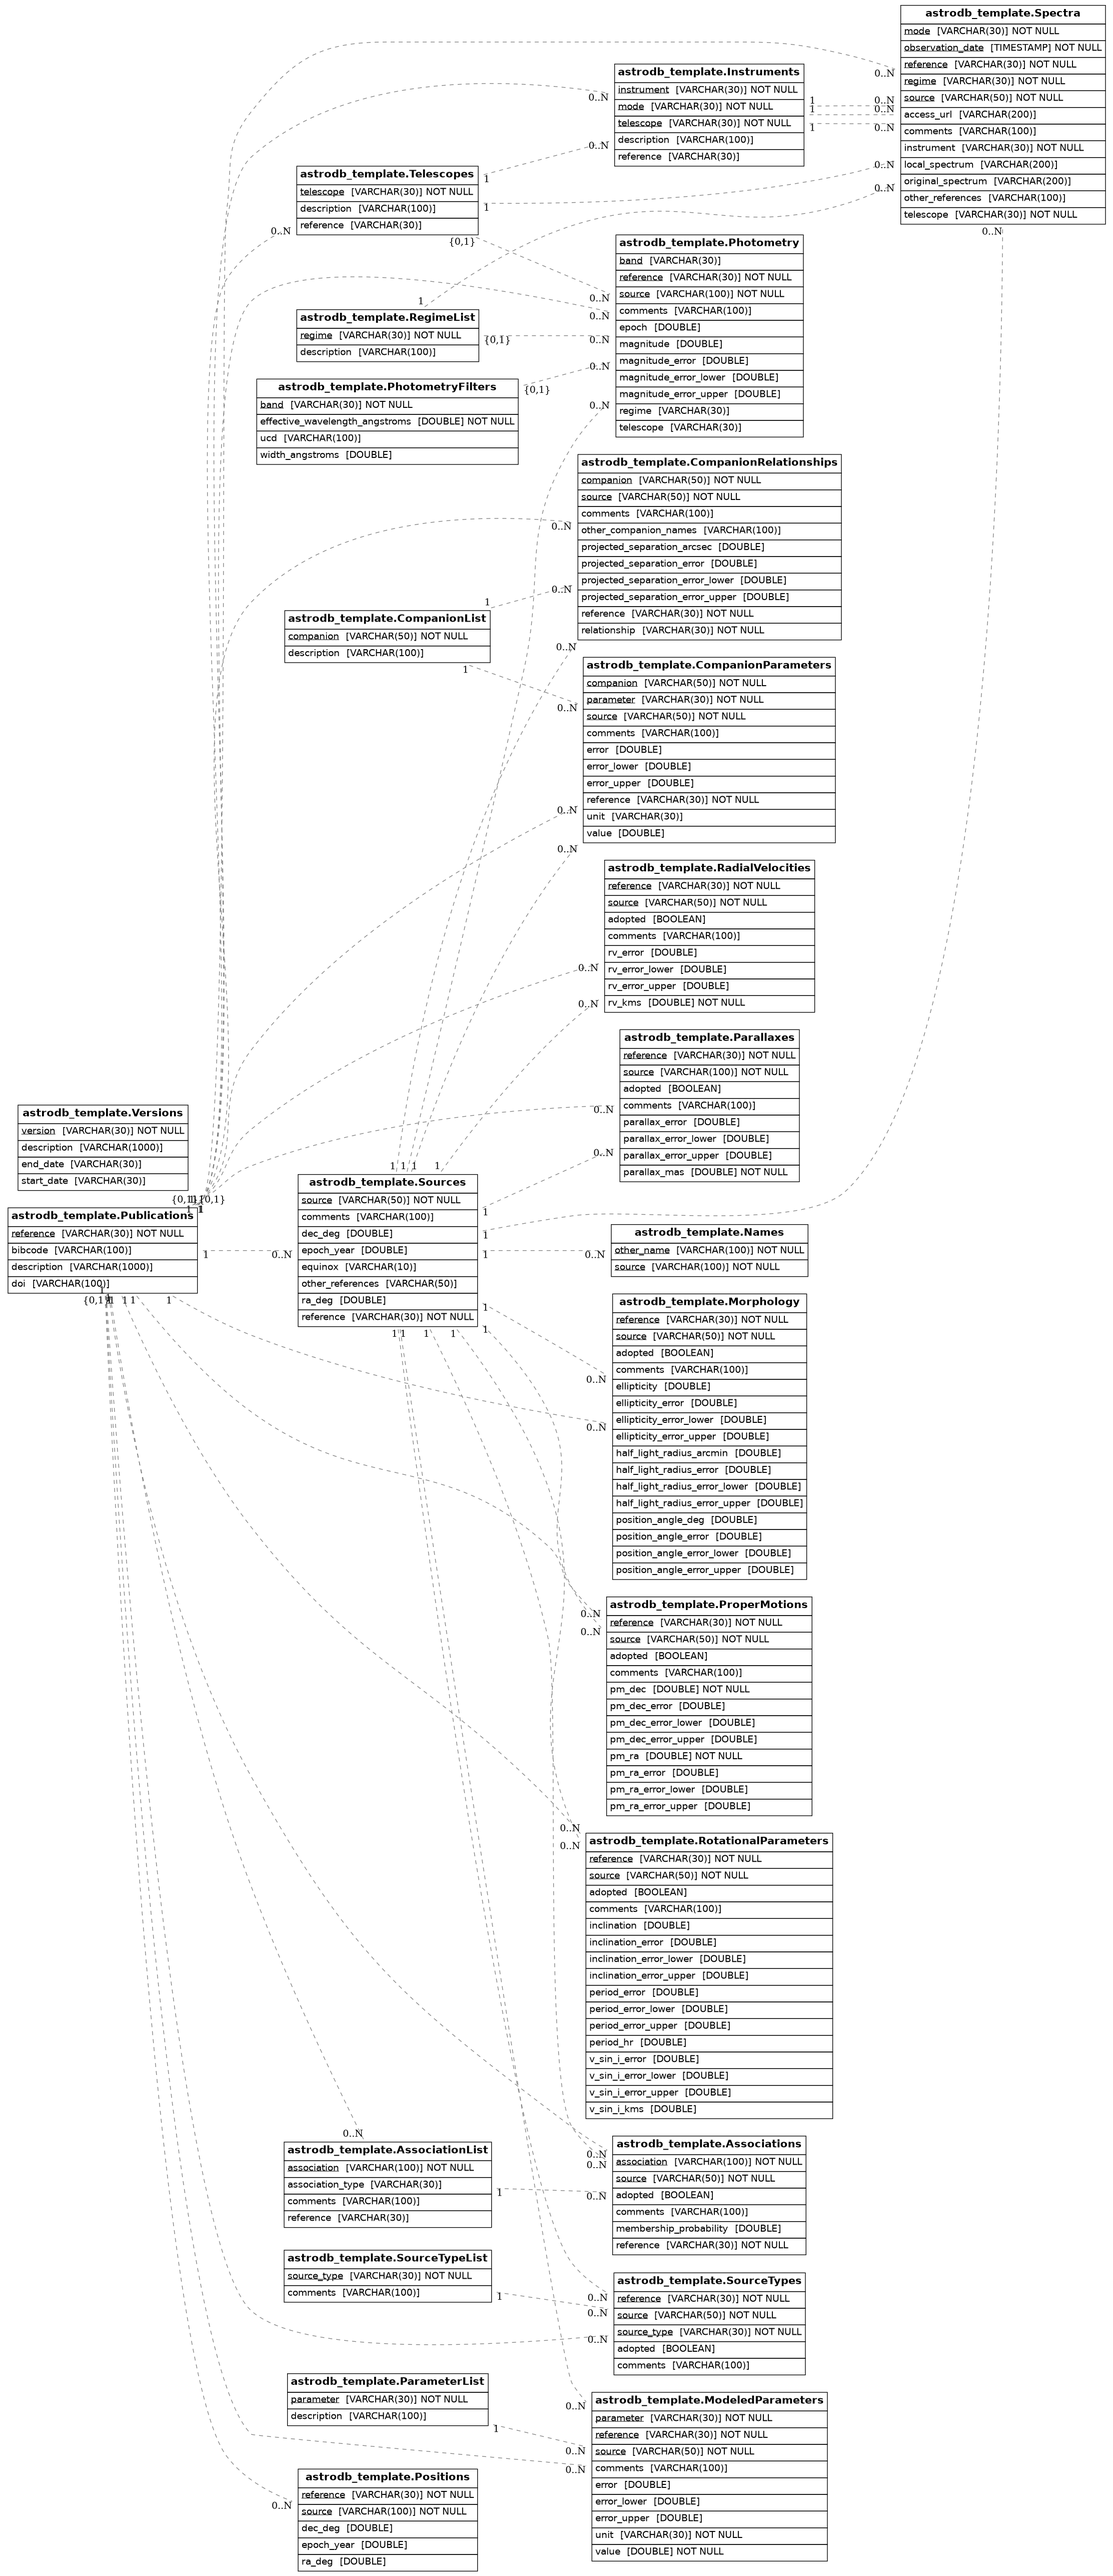
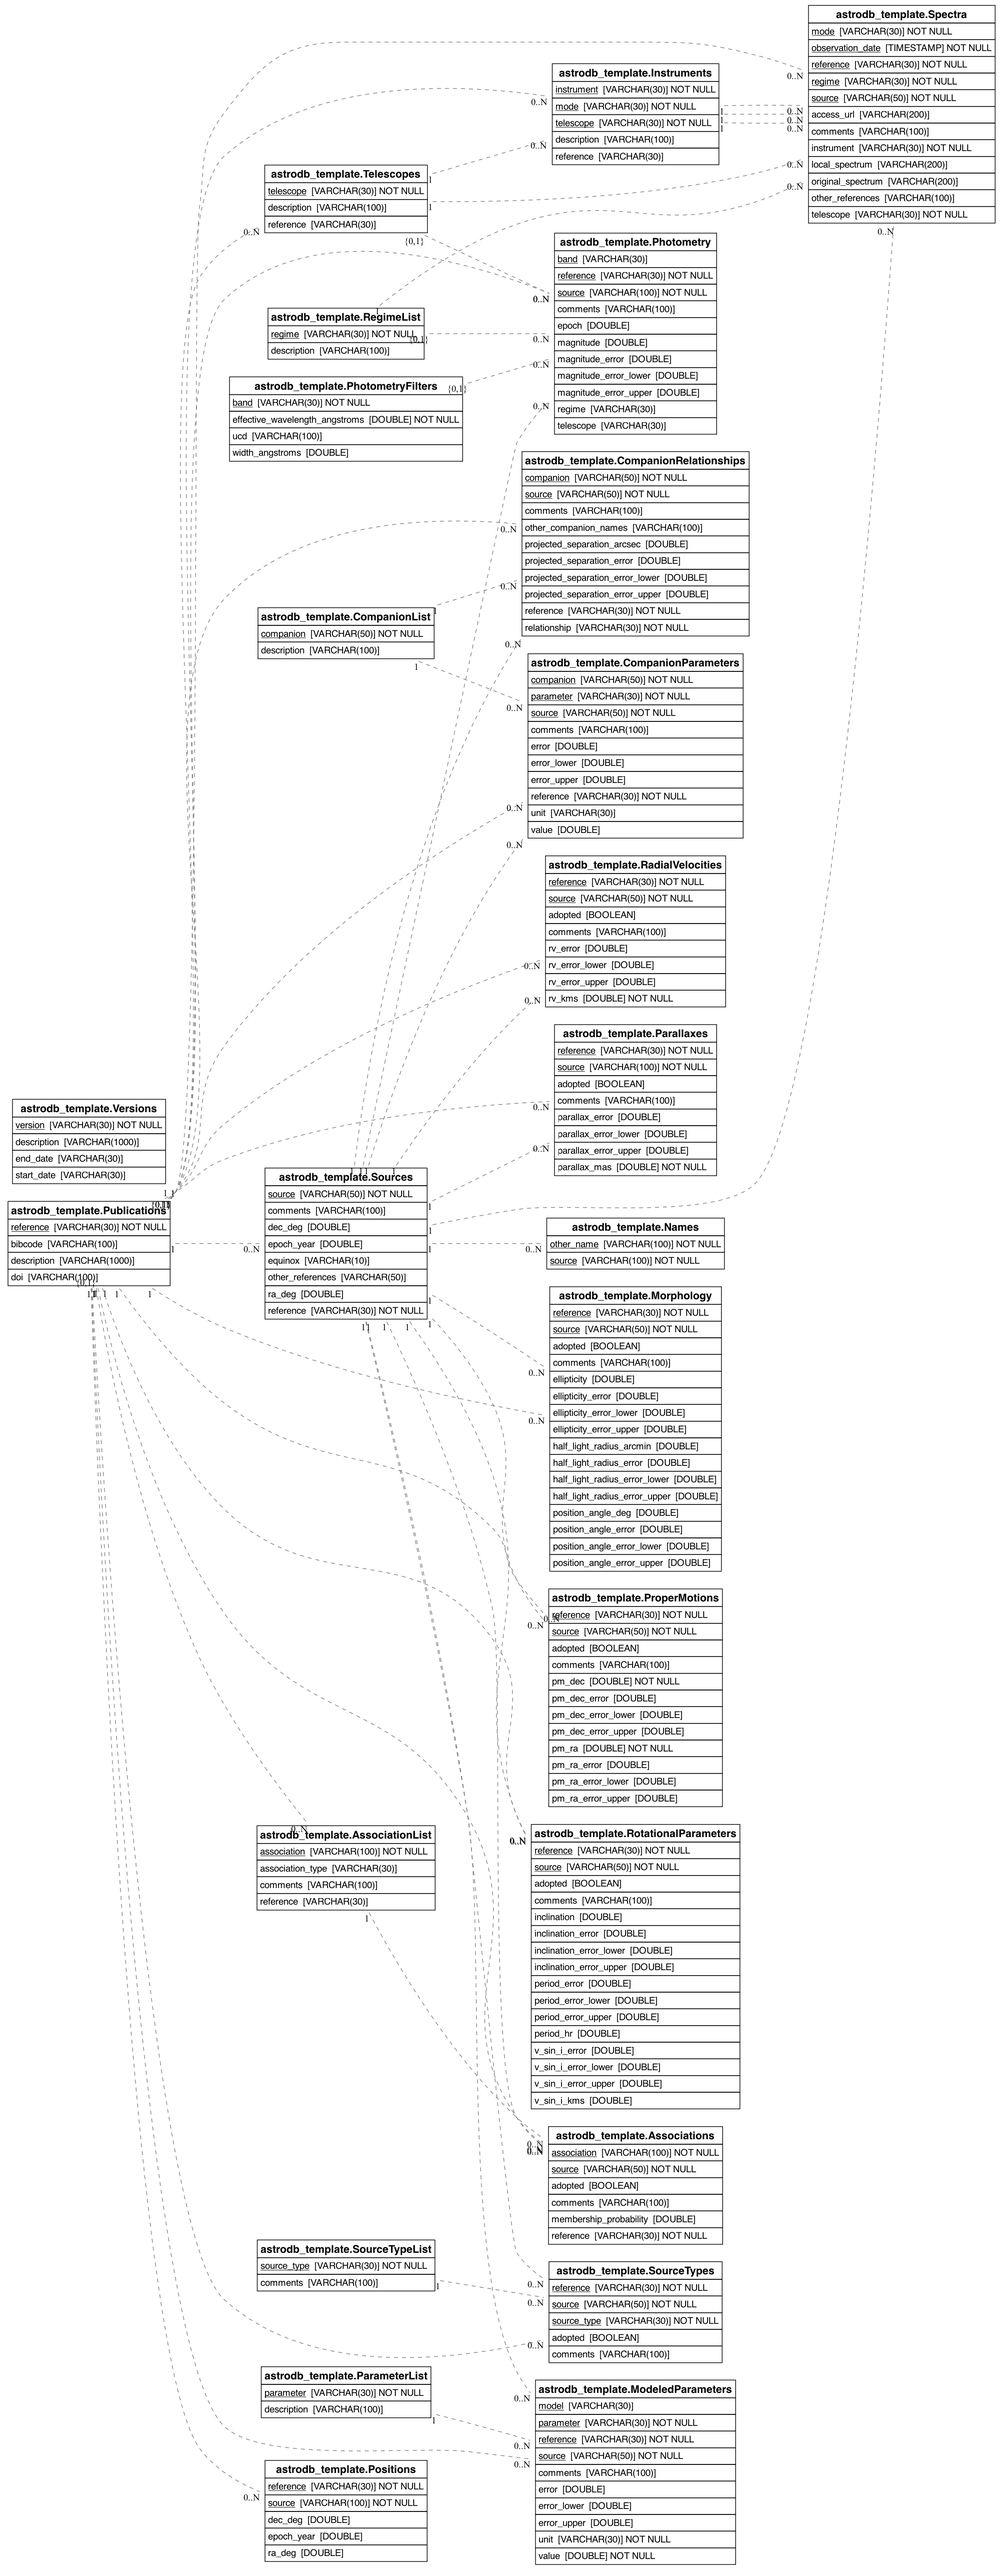
Adding model field to ModeledParameters (#183)
* Adding asymmetric errors throughout template, updating docs, example

* Adding model field to ModeledParameters

* updating sqlite file

diff --git a/docs/schema/ModeledParameters.md b/docs/schema/ModeledParameters.md
@@ -6,6 +6,7 @@ Columns marked with an exclamation mark (❗) may not be empty.
 | Column Name | Description | Datatype | Length | Units  | UCD |
 | --- | --- | --- | --- | --- | --- |
 | ❗ <ins>source</ins> | Unique identifier for the source; links to Sources table | string | 50 |  | meta.id;meta.main  |
+| model | Model name | string | 30 |  | meta.id  |
 | ❗ <ins>parameter</ins> | Parameter name; links to ParameterList table | string | 30 |  | meta.id  |
 | ❗ value | Value of the parameter | double |  |  | stat.value;meta.modelled  |
 | error | Uncertainty of the parameter value | double |  |  | stat.error;meta.modelled  |
@@ -18,7 +19,7 @@ Columns marked with an exclamation mark (❗) may not be empty.
 ## Indexes
 | Name | Columns | Description |
 | --- | --- | --- |
-| PK_ModeledParameters | ['#ModeledParameters.source', '#ModeledParameters.parameter', '#ModeledParameters.reference'] | Primary key for ModeledParameters table |
+| PK_ModeledParameters | ['#ModeledParameters.source', '#ModeledParameters.model', '#ModeledParameters.parameter', '#ModeledParameters.reference'] | Primary key for ModeledParameters table |
 
 ## Foreign Keys
 | Description | Columns | Referenced Columns |
